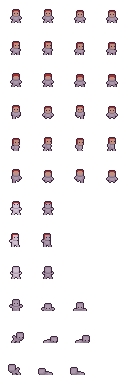
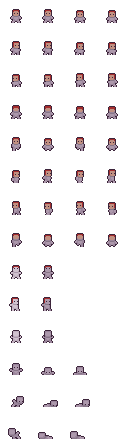
implement player facing

diff --git a/src/gameLoop.ts b/src/gameLoop.ts
@@ -2,37 +2,51 @@ import { GameState } from './models';
 import { render } from './rendering';
 
 const updatePlayerPosition = (gameState: GameState, timestamp: number) => {
-
+  let moving = false;
+  let yDir = gameState.player.yDir;
+  let xDir = gameState.player.xDir;
+  let movedX = false;
+  let movedY = false;
   if (gameState.controls.up) {
     gameState.player.y -= (gameState.player.speedY * gameState.time.delta);
-    gameState.player.yDir = -1;
+    yDir = -1;
+    moving = true;
+    movedY = true;
   }
   if (gameState.controls.down) {
     gameState.player.y += (gameState.player.speedY * gameState.time.delta);
-    gameState.player.yDir = 1;
+    yDir = 1;
+    moving = true;
+    movedY = true;
   }
   if (gameState.controls.left) {
     gameState.player.x -= (gameState.player.speedX * gameState.time.delta);
-    gameState.player.xDir = 1;
+    xDir = 1;
+    moving = true;
+    movedX = true;
   }
   if (gameState.controls.right) {
     gameState.player.x += (gameState.player.speedX * gameState.time.delta);
-    gameState.player.xDir = -1;
+    xDir = -1;
+    moving = true;
+    movedX = true;
   }
+  gameState.player.moving = moving;
+
+  if (movedX && !movedY) {
+    yDir = 0;
+  } else if (movedY && !movedX) {
+    xDir = 0;
+  }
+  gameState.player.yDir = yDir;
+  gameState.player.xDir = xDir;
 };
 
 const update = (gameState: GameState, timestamp: number) => {
-  // gameState.world.frames++;
-  // let gameTime = timestamp;
-  // gameTime *= 0.001;
-  // const deltaTime = gameTime - gameState.world.time;
-  // gameState.world.deltaTime = deltaTime;
-  // gameState.world.time = gameTime;
-
   updatePlayerPosition(gameState, timestamp);
 };
 
-const panic = (gameState: GameState) => {
+const resetDelta = (gameState: GameState) => {
   gameState.time.delta = 0;
 };
 
@@ -67,7 +81,7 @@ export const gameLoop = (ctx: CanvasRenderingContext2D, canvas: HTMLCanvasElemen
       gameState.time.delta -= gameState.time.timeStep;
 
       if (++numUpdateSteps >= 240) {
-        panic(gameState);
+        resetDelta(gameState);
         break;
       }
     }

diff --git a/src/rendering.ts b/src/rendering.ts
@@ -53,24 +53,44 @@ const drawSprite = (
   ctx.drawImage(spriteSheet, spriteX, spriteY, spriteWidth, spriteHeight, canvasX, canvasY, canvasWidth, canvasHeight);
 };
 
+const drawPlayerSprite = (
+  ctx: CanvasRenderingContext2D,
+  canvas: HTMLCanvasElement,
+  gameState: GameState
+) => {
+  const size = 32;
+  const animationSpeed = 5;
+  const playerSpriteX = 0 + Math.floor((gameState.time.delta * animationSpeed) % 4) * size;
+  const spriteMovingOffsetY = ((4 * +gameState.player.moving) * size);
+  const facingUp = gameState.player.yDir < 0;
+  const facingDown = gameState.player.yDir > 0;
+  const facingSide = gameState.player.xDir !== 0;
+  const spriteDirOffsetY = 0 + (facingDown ? 0 : (facingUp ? size * 3 : facingSide ? gameState.player.xDir > 0 ? size * 2 : size : 0));
+  const playerSpriteY = 0 + spriteMovingOffsetY + spriteDirOffsetY;
+
+  const canvasX = gameState.player.x;
+  const canvasY = gameState.player.y;
+
+  drawSprite(ctx, canvas, playerSpritesheet, {
+    canvasX,
+    canvasY,
+    canvasWidth: size * 4,
+    canvasHeight: size * 4,
+    spriteX: playerSpriteX,
+    spriteY: playerSpriteY,
+    spriteWidth: size,
+    spriteHeight: size,
+  });
+};
+
 export const render = (ctx: CanvasRenderingContext2D, canvas: HTMLCanvasElement, gameState: GameState) => {
   resetContext(ctx, canvas, "#fff");
   drawGrid(ctx, canvas, 0, "#000");
 
-  drawSprite(ctx, canvas, playerSpritesheet, {
-    canvasX: gameState.player.x,
-    canvasY: gameState.player.y,
-    canvasWidth: 24 * 4,
-    canvasHeight: 24 * 4,
-    spriteX: 0,
-    spriteY: 0,
-    spriteWidth: 24,
-    spriteHeight: 24,
-  });
+  drawPlayerSprite(ctx, canvas, gameState);
 
   // const gameStateContainer = document.querySelector("#game-state");
   if (gameState.elements.gameStateContainer) {
-    console.log('rendering game state');
     gameState.elements.gameStateContainer.innerHTML = JSON.stringify(gameState, null, 2);
   }
 }

diff --git a/src/main.ts b/src/main.ts
@@ -58,6 +58,7 @@ const init = () => {
       yDir: 0,
       speedX: .25,
       speedY: .25,
+      moving: false,
     },
     controls: {
       up: false,

diff --git a/src/models.ts b/src/models.ts
@@ -5,6 +5,7 @@ export type Player = {
   yDir: number;
   speedX: number;
   speedY: number;
+  moving: boolean;
 };
 
 export type Controls = {
